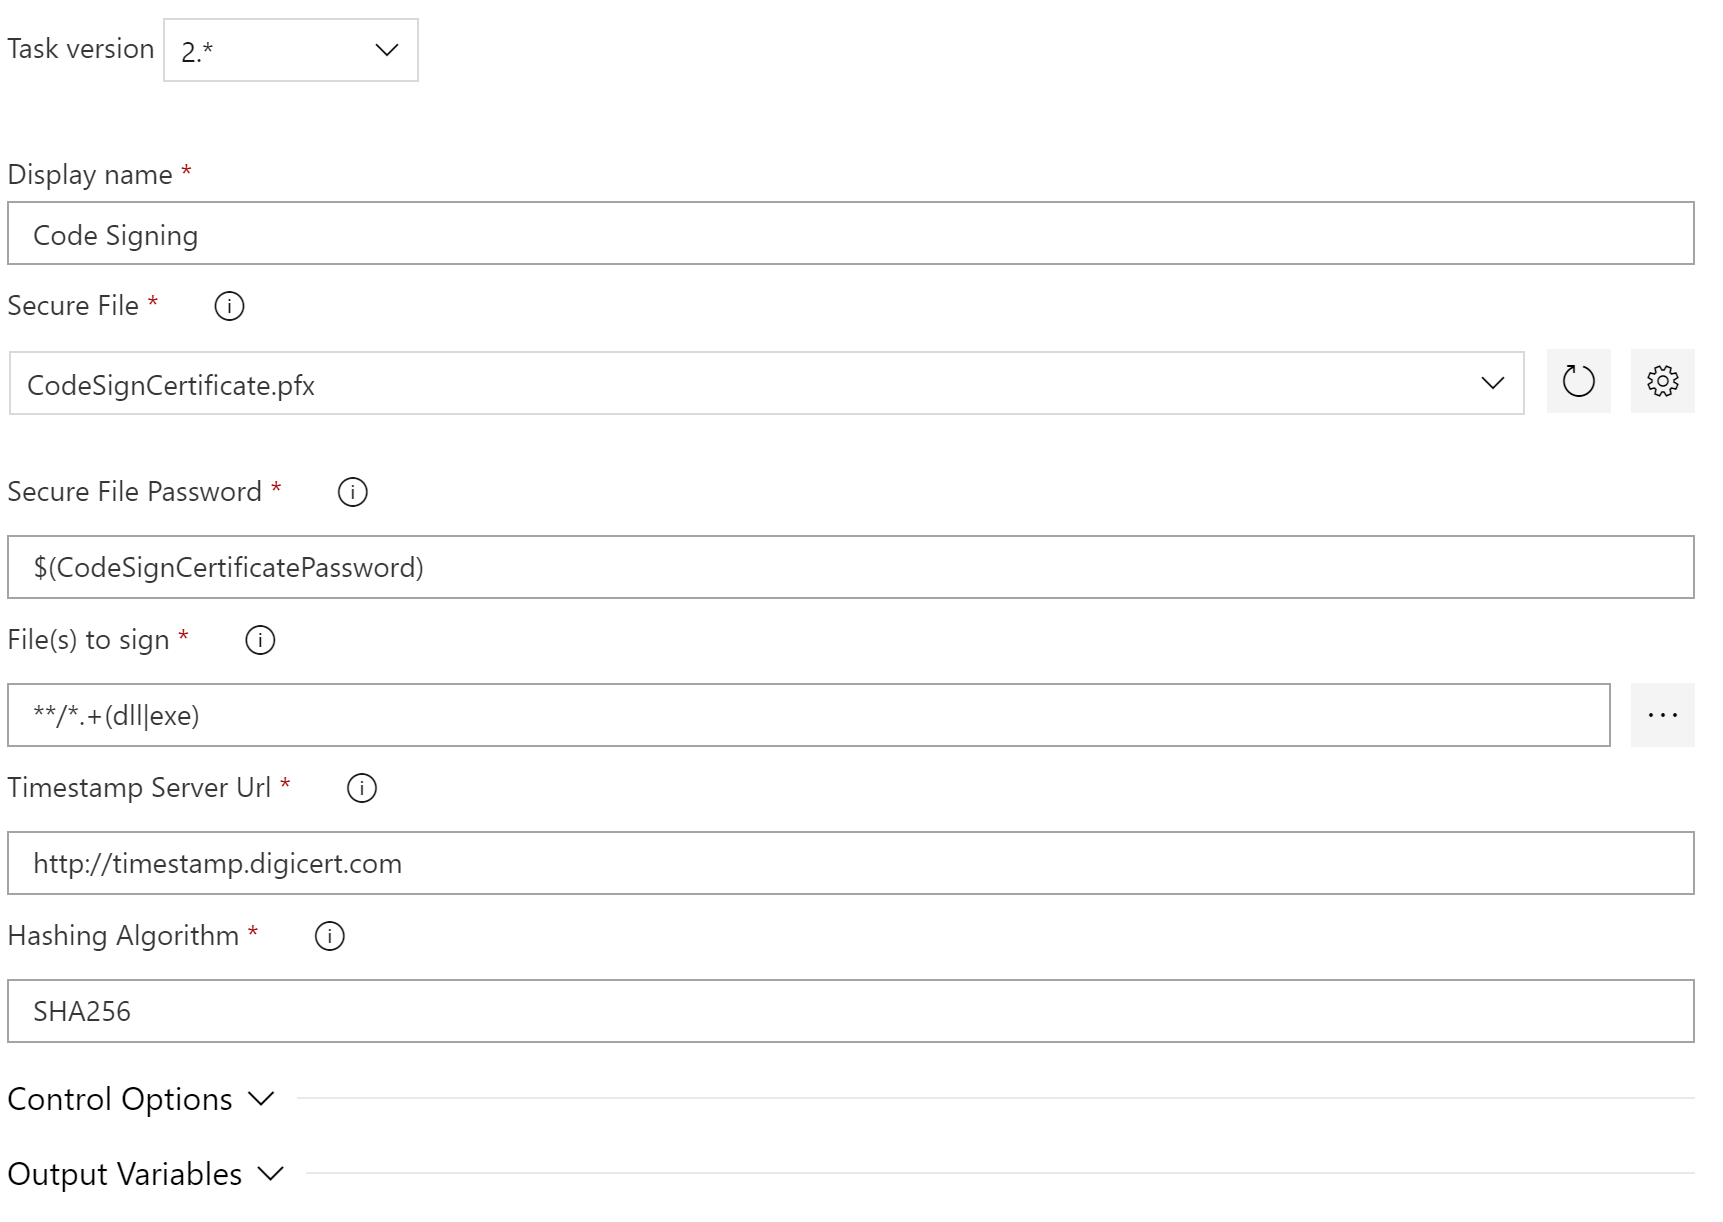
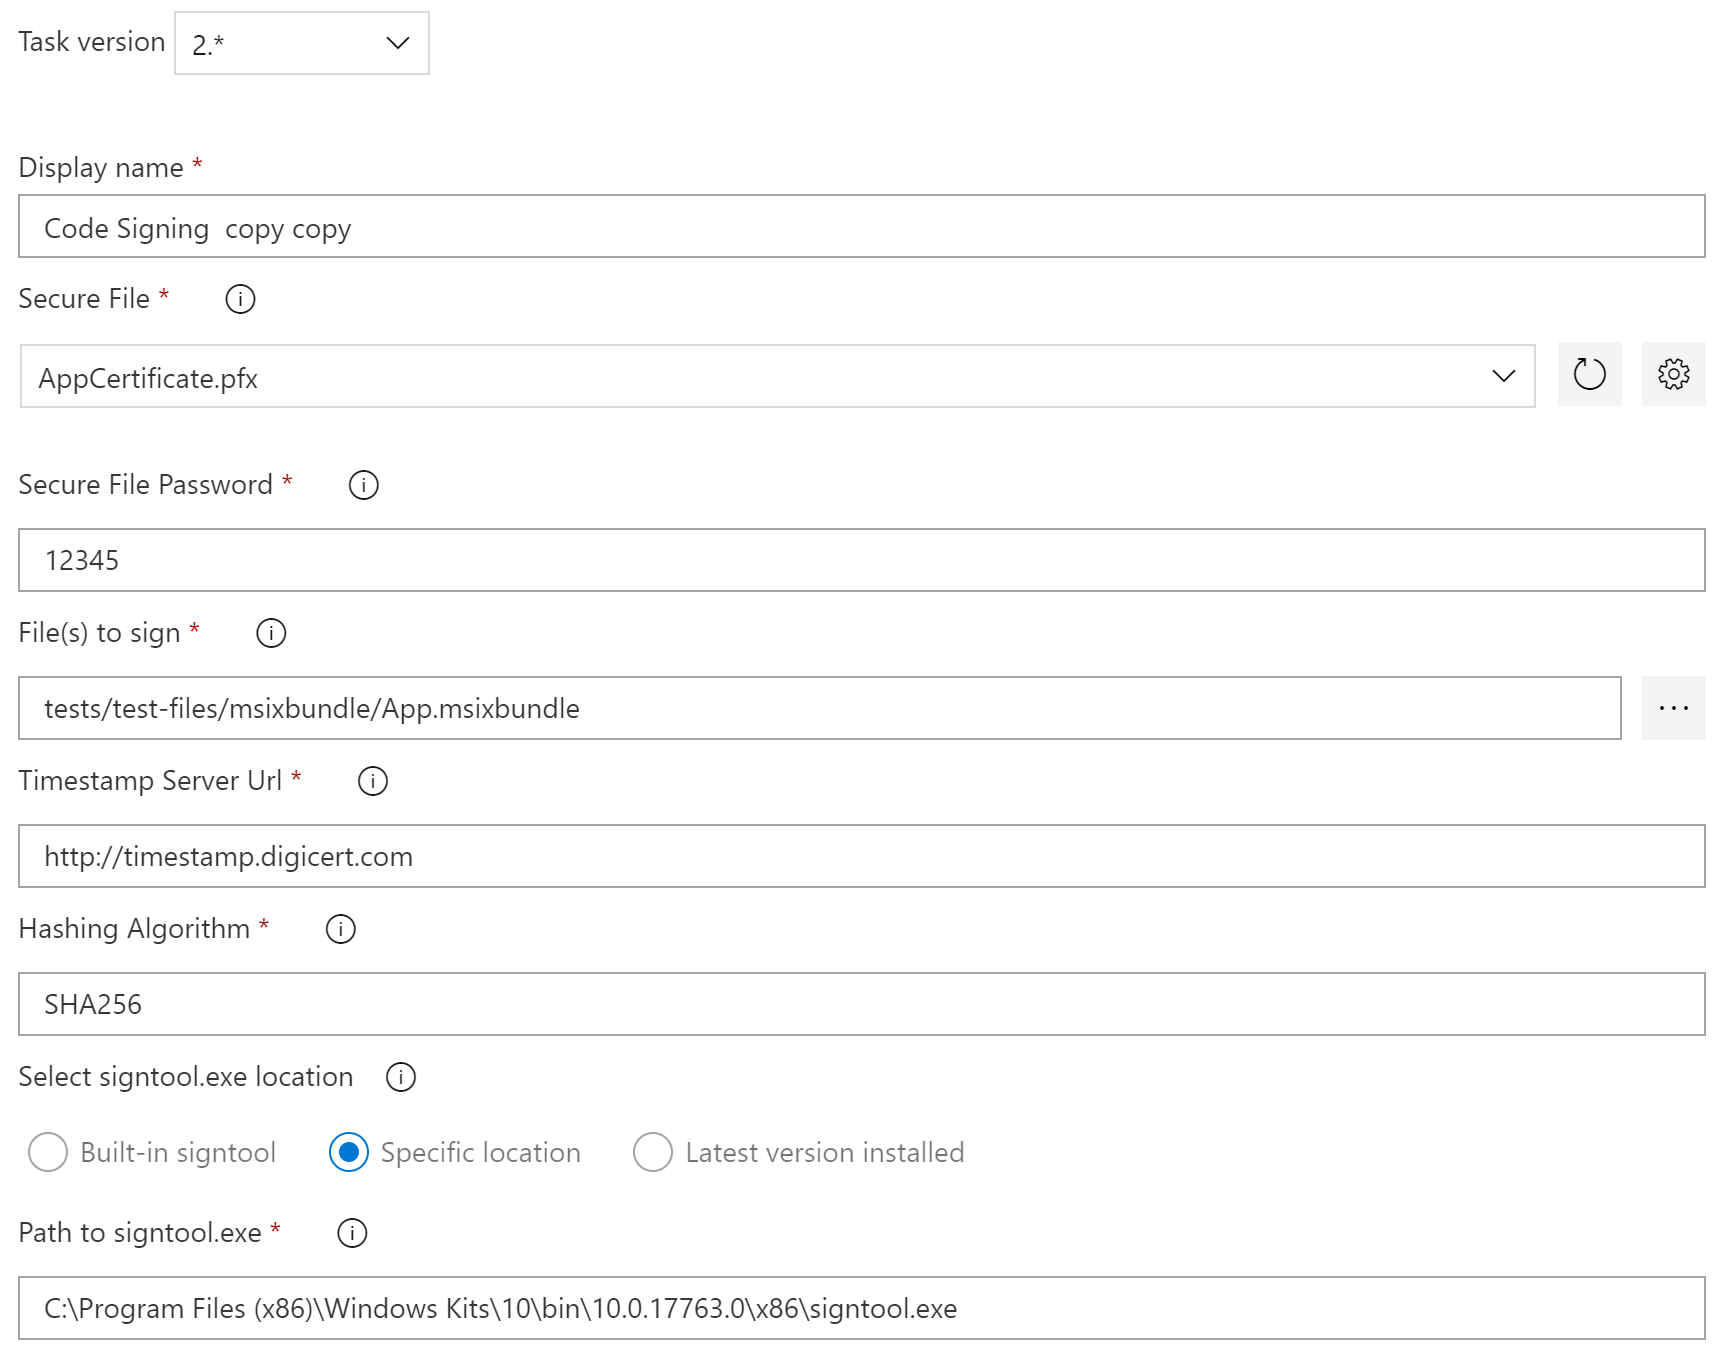
Updated readme to include information on 2.1

diff --git a/README.md b/README.md
@@ -42,3 +42,8 @@ The following filetypes are tested and supported:
   - *Breaking Change*: Introduced wildcard support. To upgrade from 1.x you have to select the new version and use the filepath to sign files. For further information on how wildcards are supported check [this article](https://docs.microsoft.com/en-us/azure/devops/pipelines/tasks/file-matching-patterns?view=azure-devops) (Fixes #5)
   - Updated SignTool to use the latest version (10.0.17763.132). With this new version the extensions *.appx* and *.appxbundle* are now officially supported. See #8 and #9 for details (big thanks to @qmatteoq for updating the signtool and bringing this up)
   - The new version should work with release tasks as well (#4)
+- 2.1.0
+  - Option to select signtool to use for signing
+    - Built-In: This is the default option. It uses the signtool.exe that comes along with the task
+    - Custom Path: With this option you can define a custom path that the task will use to sign your files. IMPORTANT: the custompath has to end with `signtool.exe`
+    - Latest version installed: This option uses the latest installed version on the current system. This only works on machines that have the Windows 10 SDK installed. The base path that is used for getting the signtool is `C:\Program Files (x86)\Windows Kits\10\bin`. The task grabs the latest installed version and tries to use the `x64` version of the .exe. If it is not available it uses `x86`. If the `x86` signtool is not available the task fails. If this is the case please check if the Windows 10 SDK is installed on your build agent. 
